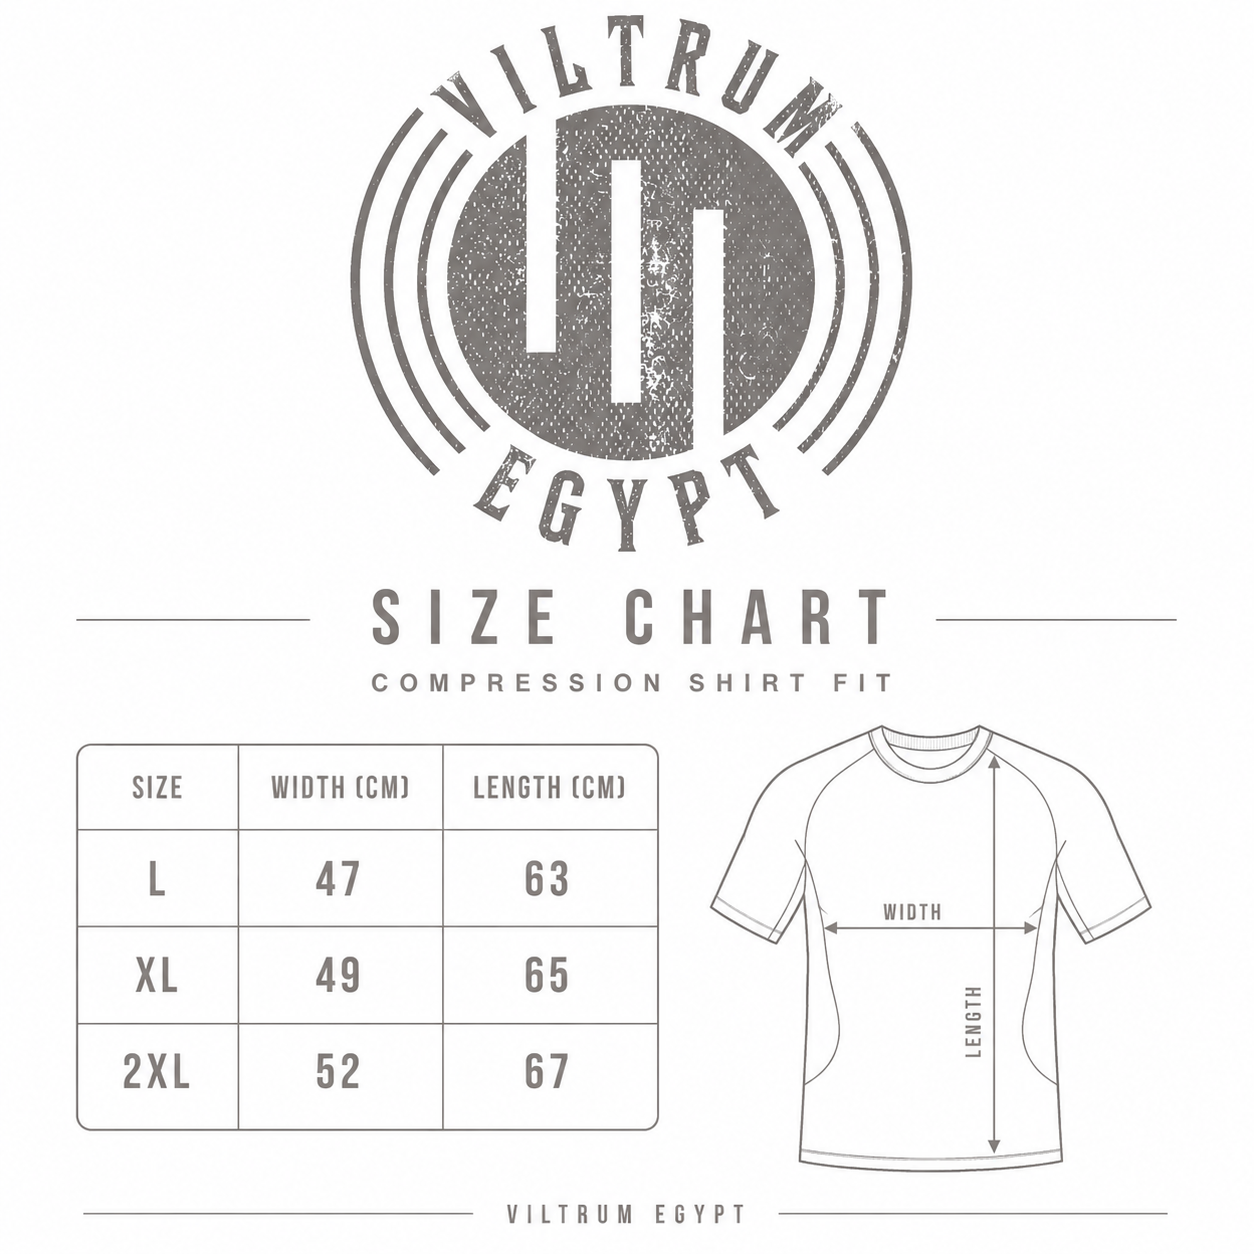
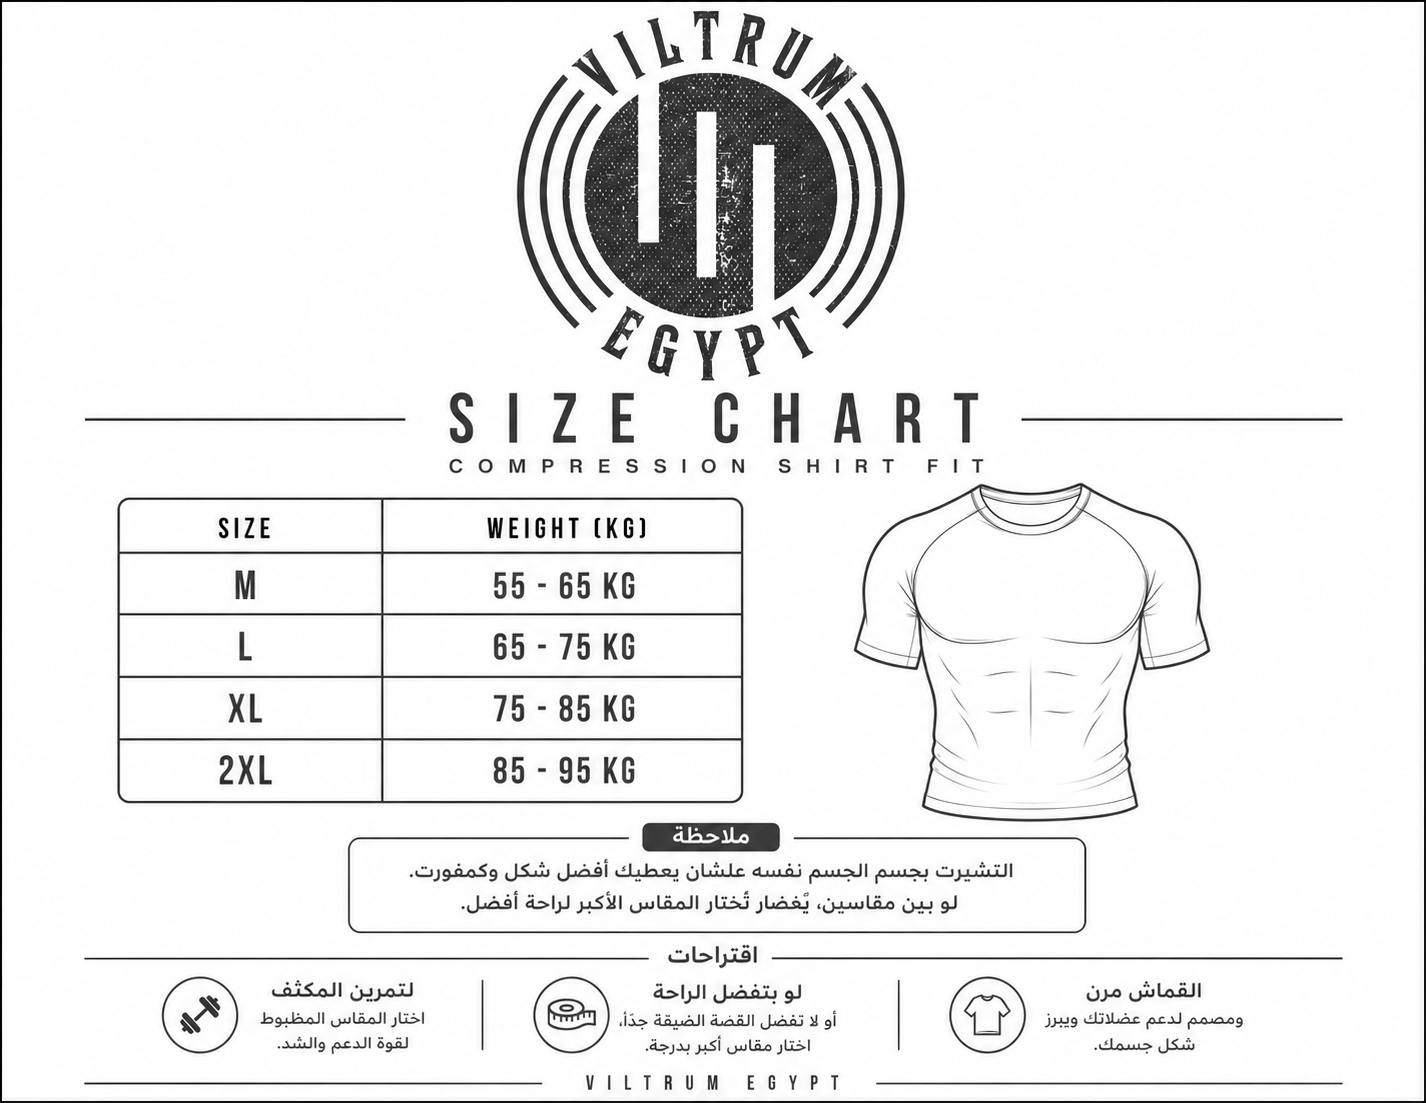
Update size chart image and simplify modal to white theme
Replaced size chart with new branded Viltrum Egypt chart showing
weight-based sizing (M/L/XL/2XL). Removed GSAP dependency from
modal, switched to white background for better contrast with the
light image.

diff --git a/src/components/products/SizeGuideModal.tsx b/src/components/products/SizeGuideModal.tsx
@@ -1,11 +1,8 @@
-/* eslint-disable @typescript-eslint/no-unused-vars */
 "use client";
 
-import { useEffect, useRef } from "react";
+import { useEffect } from "react";
 import Image from "next/image";
 import { X } from "lucide-react";
-import gsap from "gsap";
-import { useGSAP } from "@gsap/react";
 
 interface SizeGuideModalProps {
   isOpen: boolean;
@@ -13,152 +10,57 @@ interface SizeGuideModalProps {
 }
 
 export default function SizeGuideModal({ isOpen, onClose }: SizeGuideModalProps) {
-  const containerRef = useRef<HTMLDivElement>(null);
-  const overlayRef = useRef<HTMLDivElement>(null);
-  const modalRef = useRef<HTMLDivElement>(null);
-  const contentRef = useRef<HTMLDivElement>(null);
-
-  useGSAP(() => {
+  useEffect(() => {
     if (isOpen) {
-      // Unhide container
-      gsap.set(containerRef.current, { display: "flex", autoAlpha: 1 });
-      
-      const tl = gsap.timeline();
-
-      // 1. Fade in overlay
-      tl.to(overlayRef.current, {
-        autoAlpha: 1,
-        backdropFilter: "blur(12px)",
-        duration: 0.4,
-        ease: "power2.out",
-      });
-
-      // 2. "Box opening" animation for the modal
-      // We start it folded and rotated
-      gsap.set(modalRef.current, {
-        scale: 0.5,
-        rotationX: 80,
-        y: 100,
-        transformPerspective: 1000,
-        opacity: 0,
-      });
-
-      tl.to(
-        modalRef.current,
-        {
-          scale: 1,
-          rotationX: 0,
-          y: 0,
-          opacity: 1,
-          duration: 0.8,
-          ease: "back.out(1.5)", // gives it a nice bounce like opening a lid
-        },
-        "-=0.2"
-      );
-
-      // 3. Staggered reveal of content inside
-      tl.fromTo(
-        contentRef.current?.children ? Array.from(contentRef.current.children) : [],
-        { y: 20, opacity: 0 },
-        {
-          y: 0,
-          opacity: 1,
-          duration: 0.4,
-          stagger: 0.1,
-          ease: "power2.out",
-        },
-        "-=0.4"
-      );
+      document.body.style.overflow = "hidden";
     } else {
-      // Close animation
-      const tl = gsap.timeline({
-        onComplete: () => {
-          gsap.set(containerRef.current, { display: "none" });
-        },
-      });
-
-      tl.to(modalRef.current, {
-        scale: 0.8,
-        rotationX: -20,
-        y: 50,
-        opacity: 0,
-        duration: 0.4,
-        ease: "power2.in",
-      });
-
-      tl.to(
-        overlayRef.current,
-        {
-          autoAlpha: 0,
-          backdropFilter: "blur(0px)",
-          duration: 0.3,
-          ease: "power2.in",
-        },
-        "-=0.2"
-      );
+      document.body.style.overflow = "";
     }
+    return () => { document.body.style.overflow = ""; };
   }, [isOpen]);
 
+  if (!isOpen) return null;
+
   return (
-    <div
-      ref={containerRef}
-      className="fixed inset-0 z-50 items-center justify-center hidden"
-      style={{ perspective: "1200px" }}
-    >
+    <div className="fixed inset-0 z-50 flex items-center justify-center">
       {/* Overlay */}
       <div
-        ref={overlayRef}
-        className="absolute inset-0 bg-background/80 opacity-0"
+        className="absolute inset-0 bg-black/60 backdrop-blur-sm"
         onClick={onClose}
       />
 
-      {/* Modal Container */}
-      <div
-        ref={modalRef}
-        className="relative z-10 w-full max-w-2xl px-4 pointer-events-none"
-      >
-        {/* Premium Box Design */}
-        <div className="bg-surface border border-border-light shadow-2xl rounded-2xl overflow-hidden pointer-events-auto luxury-shadow">
-          
+      {/* Modal */}
+      <div className="relative z-10 w-full max-w-lg mx-4">
+        <div className="bg-white rounded-2xl overflow-hidden shadow-2xl">
           {/* Header */}
-          <div className="flex items-center justify-between px-8 py-5 border-b border-border-light bg-background/50 backdrop-blur-md">
+          <div className="flex items-center justify-between px-5 py-4 border-b border-gray-200">
             <div>
-              <p className="text-[10px] font-bold uppercase tracking-[0.2em] text-muted mb-1">
+              <p className="text-[9px] font-bold uppercase tracking-[0.2em] text-gray-400 mb-0.5">
                 Measurement Guide
               </p>
-              <h3 className="text-xl font-bold font-display tracking-tight text-foreground">
+              <h3 className="text-lg font-bold text-gray-900 font-sans">
                 Viltrum Fit Chart
               </h3>
             </div>
             <button
               onClick={onClose}
-              className="w-10 h-10 flex items-center justify-center rounded-full bg-surface border border-border-light text-muted hover:text-foreground hover:bg-background transition-all"
+              className="w-9 h-9 flex items-center justify-center rounded-full bg-gray-100 text-gray-500 hover:text-gray-900 hover:bg-gray-200 transition-colors"
             >
-              <X size={18} />
+              <X size={16} />
             </button>
           </div>
 
-          {/* Content Body */}
-          <div ref={contentRef} className="p-8 space-y-6">
-            <div className="relative w-full aspect-square md:aspect-[4/3] rounded-2xl overflow-hidden border border-border-light bg-background shadow-inner">
-              {/* Replace '/size-chart.png' with actual image later if needed, but it should be available now */}
-              <Image
-                src="/size-chart.png"
-                alt="Viltrum Size Chart"
-                fill
-                className="object-contain p-4"
-                sizes="(max-width: 768px) 100vw, 800px"
-              />
-            </div>
-            
-            <div className="flex items-start gap-4 p-4 rounded-xl bg-background border border-border-light shadow-sm">
-              <div className="w-2 h-2 rounded-full bg-primary mt-1.5 flex-shrink-0" />
-              <p className="text-sm font-medium text-secondary leading-relaxed">
-                For the best fit, lay a similar garment flat and measure from armpit to armpit for width, and from collar to bottom hem for length. Compression fit is designed to be tight; if you prefer a relaxed feel, consider sizing up.
-              </p>
-            </div>
+          {/* Size Chart Image */}
+          <div className="relative w-full">
+            <Image
+              src="/size-chart.png"
+              alt="Viltrum Size Chart"
+              width={1280}
+              height={1024}
+              className="w-full h-auto"
+              sizes="(max-width: 768px) 100vw, 500px"
+            />
           </div>
-
         </div>
       </div>
     </div>
